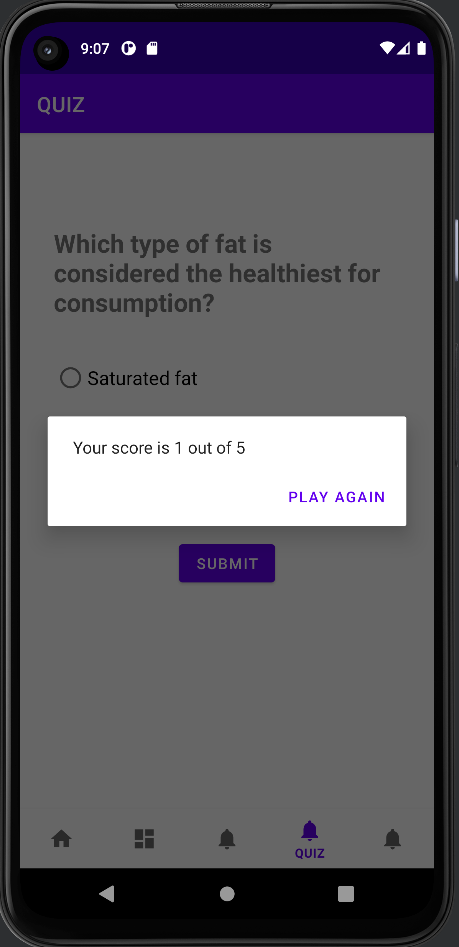
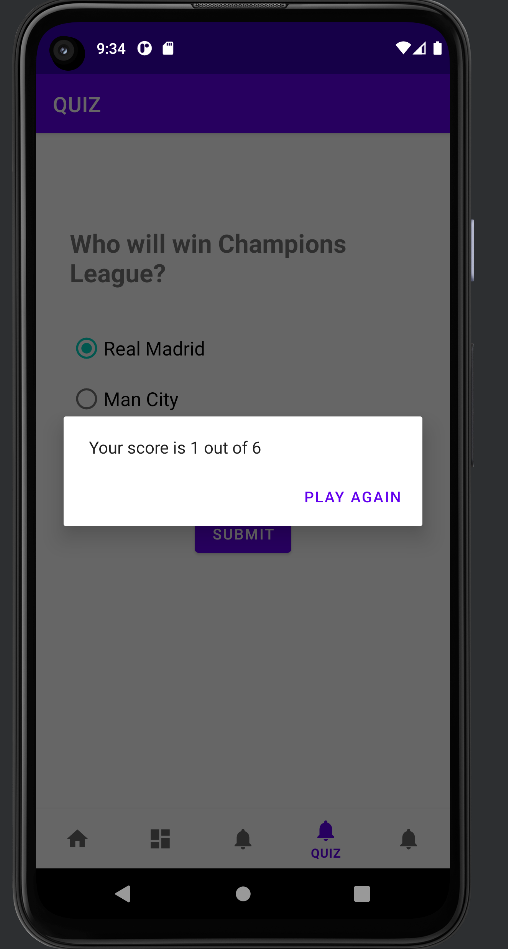
dodanie 6 pytania/screena

diff --git a/zad2_3/app/src/main/java/com/pam/bmi/ui/quiz/QuizFragment.java b/zad2_3/app/src/main/java/com/pam/bmi/ui/quiz/QuizFragment.java
@@ -123,7 +123,7 @@ public class QuizFragment extends Fragment {
 
     private void initiateQuestions() {
         questionList = new ArrayList<>();
-        for (int i = 1; i <= 5; i++) {
+        for (int i = 1; i <= 6; i++) {
             Question question = new Question(
                     getResources().getString(getResources().getIdentifier("question_" + i, "string", getActivity().getPackageName())),
                     new String[]{
